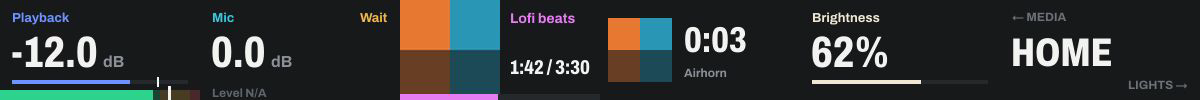
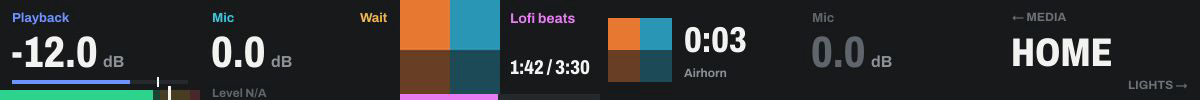
feat(deck): show mic-path controls inactive while the mic stack is off

Changed region(s): [[0.6783, 0.36, 0.74, 0.69], [0.6783, 0.12, 0.74, 0.24], [0.6783, 0.78, 0.7708, 0.84]]

diff --git a/internal/streamdeck/keylayout_test.go b/internal/streamdeck/keylayout_test.go
@@ -12,6 +12,22 @@ import (
 	"testing"
 )
 
+// unrotate decodes a key JPEG and undoes the hardware rotation.
+func unrotate(t *testing.T, raw []byte) *image.RGBA {
+	t.Helper()
+	im, err := jpeg.Decode(bytes.NewReader(raw))
+	if err != nil {
+		t.Fatal(err)
+	}
+	out := image.NewRGBA(image.Rect(0, 0, 112, 112))
+	for y := 0; y < 112; y++ {
+		for x := 0; x < 112; x++ {
+			out.Set(x, y, im.At(y, 111-x))
+		}
+	}
+	return out
+}
+
 // decodeKey renders a key and undoes the hardware rotation.
 func decodeKey(t *testing.T, label, value, icon string, on bool, artwork string) *image.RGBA {
 	t.Helper()
@@ -204,6 +220,7 @@ func TestRowsPreview(t *testing.T) {
 		{"Sync", "Wait", "huesync-sync", false, ""},
 		{"Up", "1/2", "deck-up", false, ""},
 		{"Room", "Upstairs Living Room", "", false, ""},
+		{"Mute", "Inactive", "mic-mute", false, ""}, // Drawn inactive below.
 	}
 	const columns, gap = 7, 16
 	rows := (len(examples) + columns - 1) / columns
@@ -211,6 +228,10 @@ func TestRowsPreview(t *testing.T) {
 	fill(sheet, 0, 0, sheet.Bounds().Dx(), sheet.Bounds().Dy(), color.RGBA{11, 12, 13, 255})
 	for n, e := range examples {
 		im := decodeKey(t, e.label, e.value, e.icon, e.on, e.artwork)
+		if e.value == "Inactive" {
+			raw, _ := drawKey([]string{e.label, "On"}, 112, 112, true, e.icon, false, true, "", 0)
+			im = unrotate(t, raw)
+		}
 		x0, y0 := (n%columns)*(112+gap), (n/columns)*(112+gap)
 		for y := 0; y < 112; y++ {
 			for x := 0; x < 112; x++ {
@@ -223,4 +244,40 @@ func TestRowsPreview(t *testing.T) {
 		}
 	}
 	writePreview(t, os.Getenv("SNOOFER_ROWS_PREVIEW"), sheet)
+}
+
+func TestInactiveKeysAndDialsAreGrey(t *testing.T) {
+	raw, _ := drawKey([]string{"Mute", "On"}, 112, 112, true, "mic-mute", false, true, "", 0)
+	im, err := jpeg.Decode(bytes.NewReader(raw))
+	if err != nil {
+		t.Fatal(err)
+	}
+	// Dark, not filled cyan, and nothing in the value row's place but the
+	// enlarged grey icon.
+	if r, g, b, _ := im.At(60, 11).RGBA(); !near(rgba(r, g, b), keyColor, 16) {
+		t.Fatal("inactive key is filled")
+	}
+	grey, colour := false, false
+	for y := 0; y < 112; y++ {
+		for x := 0; x < 112; x++ {
+			r, g, b, _ := im.At(x, y).RGBA()
+			c := rgba(r, g, b)
+			grey = grey || near(c, unknownColor, 20)
+			colour = colour || near(c, micArea, 60)
+		}
+	}
+	if !grey || colour {
+		t.Fatal("inactive key is not grey", grey, colour)
+	}
+	var knobs [Encoders]knobPresentation
+	knobs[0] = knobPresentation{Target: "Mic", Value: "0.0 dB", Icon: "mic-mute", Meter: true, LevelKnown: true, LevelDB: -10, PositionKnown: true, Position: 0.8, Inactive: true}
+	strip, _ := renderKnobs(knobs, 0)
+	sim, err := jpeg.Decode(bytes.NewReader(strip))
+	if err != nil {
+		t.Fatal(err)
+	}
+	// No meter along the bottom edge (strip rotated: panel (x, y) is at (y, 1199-x)).
+	if r, g, b, _ := sim.At(95, 1199-10).RGBA(); near(rgba(r, g, b), meterGreenColor, 40) {
+		t.Fatal("inactive dial shows a meter")
+	}
 }

diff --git a/plugins/audio/stack_test.go b/plugins/audio/stack_test.go
@@ -48,34 +48,36 @@ func TestDisabledStackDoesNotHideNativeError(t *testing.T) {
 	}
 }
 
-func TestMicControlsHiddenOnSurfacesWhenStackOff(t *testing.T) {
+func TestMicControlsInactiveWhenStackOff(t *testing.T) {
 	intent := &config.Intent{Enabled: false, Source: "desk", Mode: "direct", Monitor: "off", Recording: &config.RecordingChoices{}}
 	s := control.State{Connected: true, Live: true, MicOptions: []string{"desk", "off"}, Intent: intent, ActiveIntent: intent.Clone()}
-	hidden := map[string]bool{}
 	byID := map[string]snoofer.Control{}
 	for _, c := range controls(s) {
 		byID[c.ID] = c
-		hidden[c.ID] = c.Hidden
 	}
 	for _, id := range []string{"audio.mic-mute", "audio.source", "audio.mode", "audio.monitor", "audio.record-mic", "audio.record-tap", "audio.normal-source"} {
-		if _, ok := byID[id]; !ok {
+		c, ok := byID[id]
+		if !ok {
 			t.Fatalf("%s not published", id)
 		}
-		if !hidden[id] {
-			t.Errorf("%s visible with the mic stack off", id)
+		// Shown greyed in place, not blanked.
+		if !c.Inactive || c.Hidden {
+			t.Errorf("%s with the mic stack off: inactive %v, hidden %v", id, c.Inactive, c.Hidden)
 		}
 	}
-	if hidden["audio.mic-stack"] || hidden["audio.speaker-mute"] || hidden["audio.record-computer"] {
-		t.Fatal("non-mic control hidden")
+	for _, id := range []string{"audio.mic-stack", "audio.speaker-mute", "audio.record-computer"} {
+		if byID[id].Inactive || byID[id].Hidden {
+			t.Fatal("non-mic control inactive", id)
+		}
 	}
 	if !byID["audio.mode"].Available {
-		t.Fatal("hiding changed availability")
+		t.Fatal("inactivity changed availability")
 	}
 	s.Intent = &config.Intent{Enabled: true, Source: "desk", Mode: "direct", Monitor: "off", Recording: &config.RecordingChoices{}}
 	s.ActiveIntent = s.Intent.Clone()
 	for _, c := range controls(s) {
-		if c.Hidden {
-			t.Errorf("%s hidden with the mic stack on", c.ID)
+		if c.Inactive || c.Hidden {
+			t.Errorf("%s inactive or hidden with the mic stack on", c.ID)
 		}
 	}
 }

diff --git a/internal/streamdeck/surface.go b/internal/streamdeck/surface.go
@@ -15,6 +15,7 @@ type Tile struct {
 	Position           float64      // 0…1.
 	ZeroMark           float64      // 0…1 position of a neutral mark; 0 for none.
 	Timers             [2]TimerTile // Dials: countdowns shown instead of a control; the first is used first.
+	Inactive           bool         // Greyed and inert: the control has no effect right now.
 }
 
 // TimerTile is one countdown on a dial panel: artwork (or icon), name and
@@ -52,11 +53,11 @@ func renderFrame(f Frame) ([][]byte, []byte) {
 func renderChangedFrame(f Frame, cache *keyCache, phase time.Duration) ([][]byte, []byte, bool) {
 	view := presentation{}
 	for n, k := range f.Keys {
-		view.Keys[n] = keyPresentation{Artwork: k.Artwork, Label: k.Label, Value: k.Value, Icon: k.Icon}
+		view.Keys[n] = keyPresentation{Artwork: k.Artwork, Label: k.Label, Value: k.Value, Icon: k.Icon, Inactive: k.Inactive}
 	}
 	for n, k := range f.Dials {
 		view.Knobs[n] = knobPresentation{Target: k.Label, Value: k.Value, Meter: k.Meter, LevelKnown: k.LevelKnown, LevelDB: k.LevelDB,
-			PeakKnown: k.PeakKnown, PeakDB: k.PeakDB, PositionKnown: k.PositionKnown, Position: k.Position, ZeroMark: k.ZeroMark, Timers: k.Timers, Artwork: k.Artwork, Status: k.Status}
+			PeakKnown: k.PeakKnown, PeakDB: k.PeakDB, PositionKnown: k.PositionKnown, Position: k.Position, ZeroMark: k.ZeroMark, Timers: k.Timers, Artwork: k.Artwork, Status: k.Status, Inactive: k.Inactive}
 		if n == Encoders-1 {
 			// Only the page dial carries text (the next page name) in Icon; a
 			// control's icon is an identifier, never strip text.

diff --git a/internal/streamdeck/keylayout.go b/internal/streamdeck/keylayout.go
@@ -62,13 +62,13 @@ func styleFor(accent color.RGBA, value string, area color.RGBA) keyStyle {
 // start. lines are the label and value; artwork, when it decodes, fills a
 // band above the label.
 func renderArtwork(lines []string, w, h int, on bool, icon string, fallback bool, artwork string) []byte {
-	key, _ := drawKey(lines, w, h, on, icon, fallback, artwork, 0)
+	key, _ := drawKey(lines, w, h, on, icon, fallback, false, artwork, 0)
 	return key
 }
 
-// drawKey is renderArtwork at a scroll phase; it reports whether any of the
-// key's text scrolls.
-func drawKey(lines []string, w, h int, on bool, icon string, fallback bool, artwork string, phase time.Duration) ([]byte, bool) {
+// drawKey is renderArtwork at a scroll phase, greyed without a value when
+// inactive; it reports whether any of the key's text scrolls.
+func drawKey(lines []string, w, h int, on bool, icon string, fallback, inactive bool, artwork string, phase time.Duration) ([]byte, bool) {
 	scrolls := false
 	// Supersample geometry and text, then average down.
 	const scale = 4
@@ -101,6 +101,11 @@ func drawKey(lines []string, w, h int, on bool, icon string, fallback bool, artw
 		value = "" // The fill already says Playing or Active.
 	}
 	style := styleFor(accent, value, keyArea(icon))
+	if inactive {
+		// No effect right now: greyed in place, with no state to show.
+		style = keyStyle{background: keyColor, label: unknownColor, icon: unknownColor, value: unknownColor}
+		value, artwork = "", ""
+	}
 	fill(im, 0, 0, w*scale, h*scale, style.background)
 
 	set := typefaces()

diff --git a/internal/streamdeck/strip.go b/internal/streamdeck/strip.go
@@ -85,9 +85,13 @@ func drawControlKnob(im *image.RGBA, x0 int, k knobPresentation) {
 		width := set.width(labelFace, f.px, f.lines[0])
 		set.draw(im, 1, labelFace, f.px, x0+panelWidth-panelInset-width, 10, f.lines[0], attentionColor)
 	}
+	target, ink := keyArea(k.Icon), lightValue
+	if k.Inactive {
+		target, ink = unknownColor, unknownColor
+	}
 	if k.Target != "" {
 		f := set.fit(labelFace, k.Target, dialWidth, 13, 10, 1)
-		set.draw(im, 1, labelFace, f.px, x, 10, f.lines[0], keyArea(k.Icon))
+		set.draw(im, 1, labelFace, f.px, x, 10, f.lines[0], target)
 	}
 	number, unit := k.Value, ""
 	if head, tail, ok := strings.Cut(k.Value, " "); ok && (tail == "dB" || tail == "%") {
@@ -98,10 +102,13 @@ func drawControlKnob(im *image.RGBA, x0 int, k knobPresentation) {
 		unitWidth = set.width(labelFace, 16, unit) + 6
 	}
 	value := set.fit(valueFace, strings.ToUpper(number), dialWidth-unitWidth, 44, 20, 1)
-	set.draw(im, 1, valueFace, value.px, x-1, 28, value.lines[0], lightValue)
+	set.draw(im, 1, valueFace, value.px, x-1, 28, value.lines[0], ink)
 	if unit != "" {
 		end := x + set.width(valueFace, value.px, value.lines[0]) + 4
 		set.draw(im, 1, labelFace, 16, end, 28+value.px-20, unit, offValue)
+	}
+	if k.Inactive {
+		return // No position or level while the control has no effect.
 	}
 	if k.PositionKnown {
 		drawPosition(im, x, dialWidth, k)

diff --git a/internal/streamdeck/render.go b/internal/streamdeck/render.go
@@ -41,7 +41,7 @@ func render(lines []string, w, h int, on bool, icon string, fallback bool) []byt
 type keyPresentation struct {
 	Artwork            string
 	Label, Value, Icon string
-	Fallback           bool
+	Fallback, Inactive bool
 }
 type knobPresentation struct {
 	Target, Value, Name, Status string
@@ -52,6 +52,7 @@ type knobPresentation struct {
 	Timers                      [2]TimerTile
 	Artwork                     string // Shown left of the dial's text when set.
 	Icon                        string // The control's icon; names its area colour.
+	Inactive                    bool   // Greyed, without position track or meter.
 }
 type presentation struct {
 	Keys  [Keys]keyPresentation
@@ -65,7 +66,7 @@ func renderKey(key keyPresentation, phase time.Duration) ([]byte, bool) {
 	if key.Label != "" {
 		lines = []string{key.Label, key.Value}
 	}
-	return drawKey(lines, 112, 112, key.Value == "On" || key.Value == "Recording", key.Icon, key.Fallback, key.Artwork, phase)
+	return drawKey(lines, 112, 112, key.Value == "On" || key.Value == "Recording", key.Icon, key.Fallback, key.Inactive, key.Artwork, phase)
 }
 
 func renderPresentation(view presentation) ([][]byte, []byte) {

diff --git a/internal/streamdeck/scroll_test.go b/internal/streamdeck/scroll_test.go
@@ -34,15 +34,15 @@ const longTitle = "Midnight City (Eric Prydz Private Remix) - Extended"
 
 func TestLongTitleScrollsInsideItsBox(t *testing.T) {
 	art := testArtwork(t)
-	start, scrolls := drawKey([]string{longTitle, "Paused"}, 112, 112, false, "media-play", false, art, 0)
+	start, scrolls := drawKey([]string{longTitle, "Paused"}, 112, 112, false, "media-play", false, false, art, 0)
 	if !scrolls {
 		t.Fatal("long title does not scroll")
 	}
-	later, _ := drawKey([]string{longTitle, "Paused"}, 112, 112, false, "media-play", false, art, scrollHold+2*time.Second)
+	later, _ := drawKey([]string{longTitle, "Paused"}, 112, 112, false, "media-play", false, false, art, scrollHold+2*time.Second)
 	if bytes.Equal(start, later) {
 		t.Fatal("scrolling title did not move")
 	}
-	if _, scrolls := drawKey([]string{"Lofi beats", "Paused"}, 112, 112, false, "media-play", false, art, 0); scrolls {
+	if _, scrolls := drawKey([]string{"Lofi beats", "Paused"}, 112, 112, false, "media-play", false, false, art, 0); scrolls {
 		t.Fatal("a title that fits scrolls")
 	}
 	// Mid-scroll, the label row stays clear of the corner inset.

diff --git a/internal/streamdeck/strip_test.go b/internal/streamdeck/strip_test.go
@@ -14,9 +14,9 @@ func TestStripPreview(t *testing.T) {
 	frame.Dials[0] = Tile{Label: "Playback", Value: "-12.0 dB", Icon: "speaker-mute", Meter: true, LevelKnown: true, LevelDB: -14,
 		PeakKnown: true, PeakDB: -9, PositionKnown: true, Position: 0.67, ZeroMark: 0.83}
 	frame.Dials[1] = Tile{Label: "Mic", Value: "0.0 dB", Icon: "mic-mute", Meter: true, Status: "Wait"}
+	frame.Dials[4] = Tile{Label: "Mic", Value: "0.0 dB", Icon: "mic-mute", Meter: true, LevelKnown: true, LevelDB: -20, Inactive: true}
 	frame.Dials[2] = Tile{Artwork: art, Label: "Lofi beats", Value: "1:42 / 3:30", Icon: "media-play", PositionKnown: true, Position: 0.49}
 	frame.Dials[3] = Tile{Timers: [2]TimerTile{{Artwork: art, Label: "Airhorn", Time: "0:03"}}}
-	frame.Dials[4] = Tile{Label: "Brightness", Value: "62%", Icon: "hue-brightness", PositionKnown: true, Position: 0.62}
 	frame.Dials[5] = Tile{Label: "Media", Value: "Home", Icon: "Lights"}
 	_, raw := renderFrame(frame)
 	rotated, err := jpeg.Decode(bytes.NewReader(raw))

diff --git a/plugins/streamdeck/meter.go b/plugins/streamdeck/meter.go
@@ -9,7 +9,8 @@ import (
 )
 
 // bindingTile presents a binding's current control. Hidden controls and
-// unavailable controls without label or icon (empty provider slots) render blank.
+// unavailable controls without label or icon (empty provider slots) render
+// blank; inactive controls render greyed.
 func bindingTile(b Binding, c snoofer.Control, ok bool, now time.Time) device.Tile {
 	if b.Control == "" {
 		return device.Tile{}
@@ -19,6 +20,14 @@ func bindingTile(b Binding, c snoofer.Control, ok bool, now time.Time) device.Ti
 	}
 	if c.Hidden {
 		return device.Tile{}
+	}
+	if c.Inactive {
+		// No effect right now: greyed in place, with no value or meter.
+		label := c.ShortLabel
+		if label == "" {
+			label = c.Label
+		}
+		return device.Tile{Label: label, Icon: c.Icon, Inactive: true}
 	}
 	if !c.Available {
 		if c.Label == "" && c.ShortLabel == "" && c.Icon == "" {

diff --git a/snoofer/controls.go b/snoofer/controls.go
@@ -29,6 +29,7 @@ type Control struct {
 	Connection                                  *Connection `json:",omitempty"` // Optional external integration report (Kind "connection").
 	SurfaceOnly                                 bool
 	Hidden                                      bool // Optional: no useful place on surfaces right now; the deck renders a blank key and GUIs omit it. Publish it unavailable.
+	Inactive                                    bool // Optional: has no effect right now, such as mic-path controls while the mic stack is off; surfaces show it greyed and inert in its place.
 	OptionLabels                                map[string]string
 	EnterOnly                                   bool
 	Epoch                                       uint64

diff --git a/plugins/audio/audio.go b/plugins/audio/audio.go
@@ -489,9 +489,10 @@ func controls(s control.State) []snoofer.Control {
 		if out[n].Group == "Bindings" {
 			out[n].Label += " · " + s.Profile
 		}
-		// With the mic stack off, mic-path controls have no use on control
-		// surfaces; the GUI still shows them, so availability is unchanged.
-		out[n].Hidden = !s.Intent.Enabled && micPathControls[key]
+		// With the mic stack off, mic-path controls have no effect: surfaces
+		// show them inactive in place. The GUI still shows them, so
+		// availability is unchanged.
+		out[n].Inactive = !s.Intent.Enabled && micPathControls[key]
 		if out[n].Kind == "numeric" || out[n].Group == "Transport" {
 			out[n].Available = s.Connected && s.Live
 			if strings.HasPrefix(key, "gain-") {

diff --git a/plugins/streamdeck/meter_test.go b/plugins/streamdeck/meter_test.go
@@ -35,3 +35,11 @@ func TestSelectionKeyShowsOptionLabel(t *testing.T) {
 		t.Fatal("unlabelled value", tile)
 	}
 }
+
+func TestInactiveControlTile(t *testing.T) {
+	c := snoofer.Control{ID: "audio.mic-mute", Label: "Mic Mute", ShortLabel: "Mute", Icon: "mic-mute", Value: "On", Available: true, Inactive: true}
+	tile := bindingTile(Binding{Control: c.ID}, c, true, time.Now())
+	if !tile.Inactive || tile.Label != "Mute" || tile.Icon != "mic-mute" || tile.Value != "" || tile.Meter {
+		t.Fatal("inactive tile", tile)
+	}
+}
